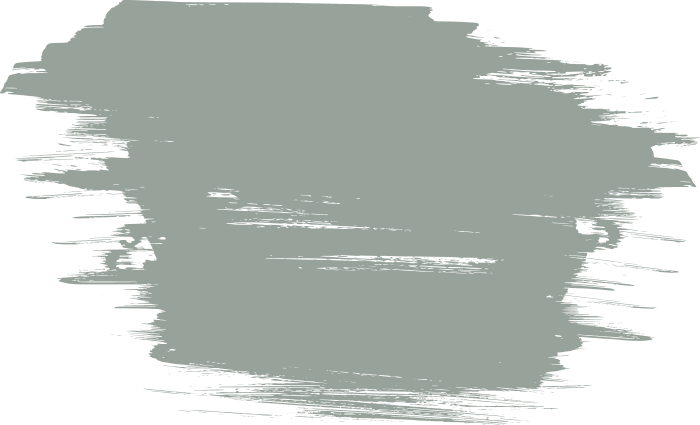
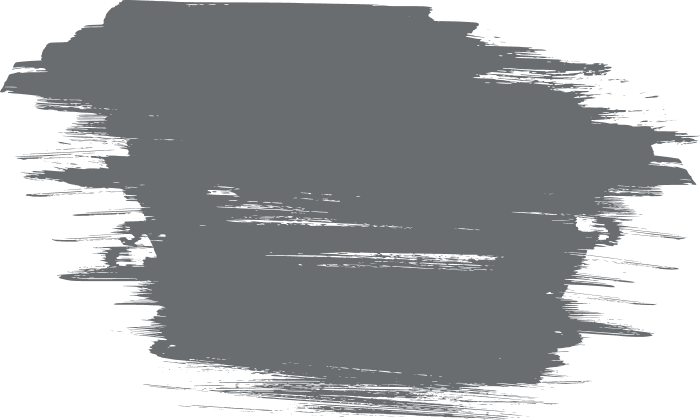
r

diff --git a/src/scss/ip-style.css b/src/scss/ip-style.css
@@ -85,7 +85,7 @@
 
 .main-title-block__number-list {
   display: flex;
-  margin-bottom: 180px !important;
+  margin-bottom: 50px !important;
 }
 
 .number-list__item {
@@ -98,7 +98,7 @@
   border: 1px solid #ffffff;
   font-family: "Days One", "Roboto Condensed", sans-serif;
   font-size: 54px;
-  background-color: #9F3138;
+  background-color: #97A29B;
   color: #ffffff;
 }
 
@@ -116,8 +116,12 @@
 }
 
 .main-title-block__title-block {
+  display: flex;
+  flex-direction: column;
+  justify-content: center;
   width: 700px;
   height: 430px;
+  padding-left: 40px;
   background-image: url(../../img/index-page/11310.png);
   background-repeat: no-repeat;
   background-position: center;
@@ -131,7 +135,7 @@
 }
 
 .main-title-block__discr {
-  width: 60%;
+  width: 600px;
   font-size: 32px;
   font-weight: 400;
   color: #ffffff;
@@ -141,7 +145,7 @@
 .main-title-block__botton {
   width: 400px;
   height: 60px;
-  background-color: #9F3138;
+  background-color: #696D70;
   font-size: 24px;
   font-weight: 400;
   border-radius: 10px;
@@ -1007,7 +1011,7 @@
   font-weight: 400;
   font-size: 22px;
   line-height: 28px;
-  color: #97A29B;
+  color: #E0E3E4;
 }
 
 .footer-contact__title {
@@ -1040,7 +1044,7 @@
   font-size: 20px;
   line-height: normal;
   font-weight: 400;
-  color: #97A29B;
+  color: #E0E3E4;
   margin-bottom: 20px;
 }
 
@@ -1056,7 +1060,7 @@
 }
 
 .footer-nav-link {
-  color: #97A29B !important;
+  color: #E0E3E4 !important;
 }
 
 .footer-nav-link:hover {
@@ -1073,11 +1077,11 @@
   font-size: 20px;
   line-height: 54px;
   margin-right: 8px;
-  color: #97A29B;
+  color: #E0E3E4;
 }
 
 .tel-big {
   font-family: "Days One", "Roboto Condensed", sans-serif;
   font-size: 48px;
-  color: #97A29B;
+  color: #E0E3E4;
 }

diff --git a/src/scss/index-page-scss/ip-main-section.scss b/src/scss/index-page-scss/ip-main-section.scss
@@ -27,7 +27,7 @@
 
 .main-title-block__number-list {
     display: flex;
-    margin-bottom: 180px !important;
+    margin-bottom: 50px !important;
 }
 
 .number-list__item {
@@ -40,7 +40,7 @@
     border: 1px solid #ffffff;
     font-family: $font-title;
     font-size: 54px;
-    background-color: $color-third;
+    background-color: $color-first;
     color: #ffffff;
 }
 
@@ -58,8 +58,12 @@
 } 
 
 .main-title-block__title-block {
+    display: flex;
+    flex-direction: column;
+    justify-content: center;
     width: 700px;
     height: 430px;
+    padding-left: 40px;
     background-image: url(../../img/index-page/11310.png);
     background-repeat: no-repeat;
     background-position: center;
@@ -73,7 +77,7 @@
 }
 
 .main-title-block__discr {
-    width: 60%;
+    width: 600px;
     font-size: 32px;
     font-weight: 400;
     color: #ffffff;
@@ -83,7 +87,7 @@
 .main-title-block__botton {
     width: 400px;
     height: 60px;
-    background-color: $color-third;
+    background-color: $color-second;
     font-size: 24px;
     font-weight: 400;
     border-radius: 10px;

diff --git a/src/scss/index-page-scss/ip-main-section.css b/src/scss/index-page-scss/ip-main-section.css
@@ -24,7 +24,7 @@
 
 .main-title-block__number-list {
   display: flex;
-  margin-bottom: 180px !important;
+  margin-bottom: 50px !important;
 }
 
 .number-list__item {
@@ -37,7 +37,7 @@
   border: 1px solid #ffffff;
   font-family: "Days One", "Roboto Condensed", sans-serif;
   font-size: 54px;
-  background-color: #9F3138;
+  background-color: #97A29B;
   color: #ffffff;
 }
 
@@ -55,8 +55,12 @@
 }
 
 .main-title-block__title-block {
+  display: flex;
+  flex-direction: column;
+  justify-content: center;
   width: 700px;
   height: 430px;
+  padding-left: 40px;
   background-image: url(../../img/index-page/11310.png);
   background-repeat: no-repeat;
   background-position: center;
@@ -70,7 +74,7 @@
 }
 
 .main-title-block__discr {
-  width: 60%;
+  width: 600px;
   font-size: 32px;
   font-weight: 400;
   color: #ffffff;
@@ -80,7 +84,7 @@
 .main-title-block__botton {
   width: 400px;
   height: 60px;
-  background-color: #9F3138;
+  background-color: #696D70;
   font-size: 24px;
   font-weight: 400;
   border-radius: 10px;

diff --git a/src/scss/footer.scss b/src/scss/footer.scss
@@ -28,7 +28,7 @@
     font-weight: 400;
     font-size: 22px;
     line-height: 28px;
-    color: $color-first;
+    color: $color-footer-text;
 }
 
 .footer-contact__title {
@@ -61,7 +61,7 @@
     font-size: 20px;
     line-height: normal;
     font-weight: 400;
-    color: $color-first;
+    color: $color-footer-text;
     margin-bottom: 20px;
 }
 
@@ -77,7 +77,7 @@
 }
 
 .footer-nav-link {
-    color: $color-first !important;
+    color: $color-footer-text !important;
 }
 
 .footer-nav-link:hover {
@@ -94,11 +94,11 @@
     font-size: 20px;
     line-height: 54px;
     margin-right: 8px;
-    color: $color-first;
+    color: $color-footer-text;
 }
 
 .tel-big {
     font-family: $font-title;
     font-size: 48px;
-    color: $color-first;
+    color: $color-footer-text;
 }

diff --git a/src/scss/footer.css b/src/scss/footer.css
@@ -25,7 +25,7 @@
   font-weight: 400;
   font-size: 22px;
   line-height: 28px;
-  color: #97A29B;
+  color: #E0E3E4;
 }
 
 .footer-contact__title {
@@ -58,7 +58,7 @@
   font-size: 20px;
   line-height: normal;
   font-weight: 400;
-  color: #97A29B;
+  color: #E0E3E4;
   margin-bottom: 20px;
 }
 
@@ -74,7 +74,7 @@
 }
 
 .footer-nav-link {
-  color: #97A29B !important;
+  color: #E0E3E4 !important;
 }
 
 .footer-nav-link:hover {
@@ -91,11 +91,11 @@
   font-size: 20px;
   line-height: 54px;
   margin-right: 8px;
-  color: #97A29B;
+  color: #E0E3E4;
 }
 
 .tel-big {
   font-family: "Days One", "Roboto Condensed", sans-serif;
   font-size: 48px;
-  color: #97A29B;
+  color: #E0E3E4;
 }

diff --git a/src/scss/variables.scss b/src/scss/variables.scss
@@ -4,10 +4,9 @@ $font-title: 'Days One', 'Roboto Condensed', sans-serif;
 $font-textBady: 'Mulish', sans-serif;
 
 
-//-- Цветовая палитра проекта
+// -- Цветовая палитра проекта
 $color-first: #97A29B;
 $color-second: #696D70;
 $color-third: #9F3138;
+$color-footer-text: #E0E3E4;
 $bg-color: #F7F7F7;
-
-

diff --git a/src/scss/ip-style.scss b/src/scss/ip-style.scss
@@ -63,14 +63,6 @@
 }
 
 
-
-
-
-
-
-
-
-
 @media only screen and (max-width: 1280px) {}
   
 @media only screen and (max-width: 1024px) {}
@@ -80,8 +72,6 @@
 @media only screen and (max-width: 640px) {}
   
 @media only screen and (max-width: 480px) {}
-
-
 
 
 

diff --git a/src/scss/project-style.scss b/src/scss/project-style.scss
@@ -157,7 +157,6 @@ section {
   // border: 1px solid red;
 }
 
-
 .h1__visually {
     font-size: 0.1px;
 }
@@ -345,3 +344,9 @@ button {
     font-size: 16px;
   }
 }
+
+
+
+
+
+
